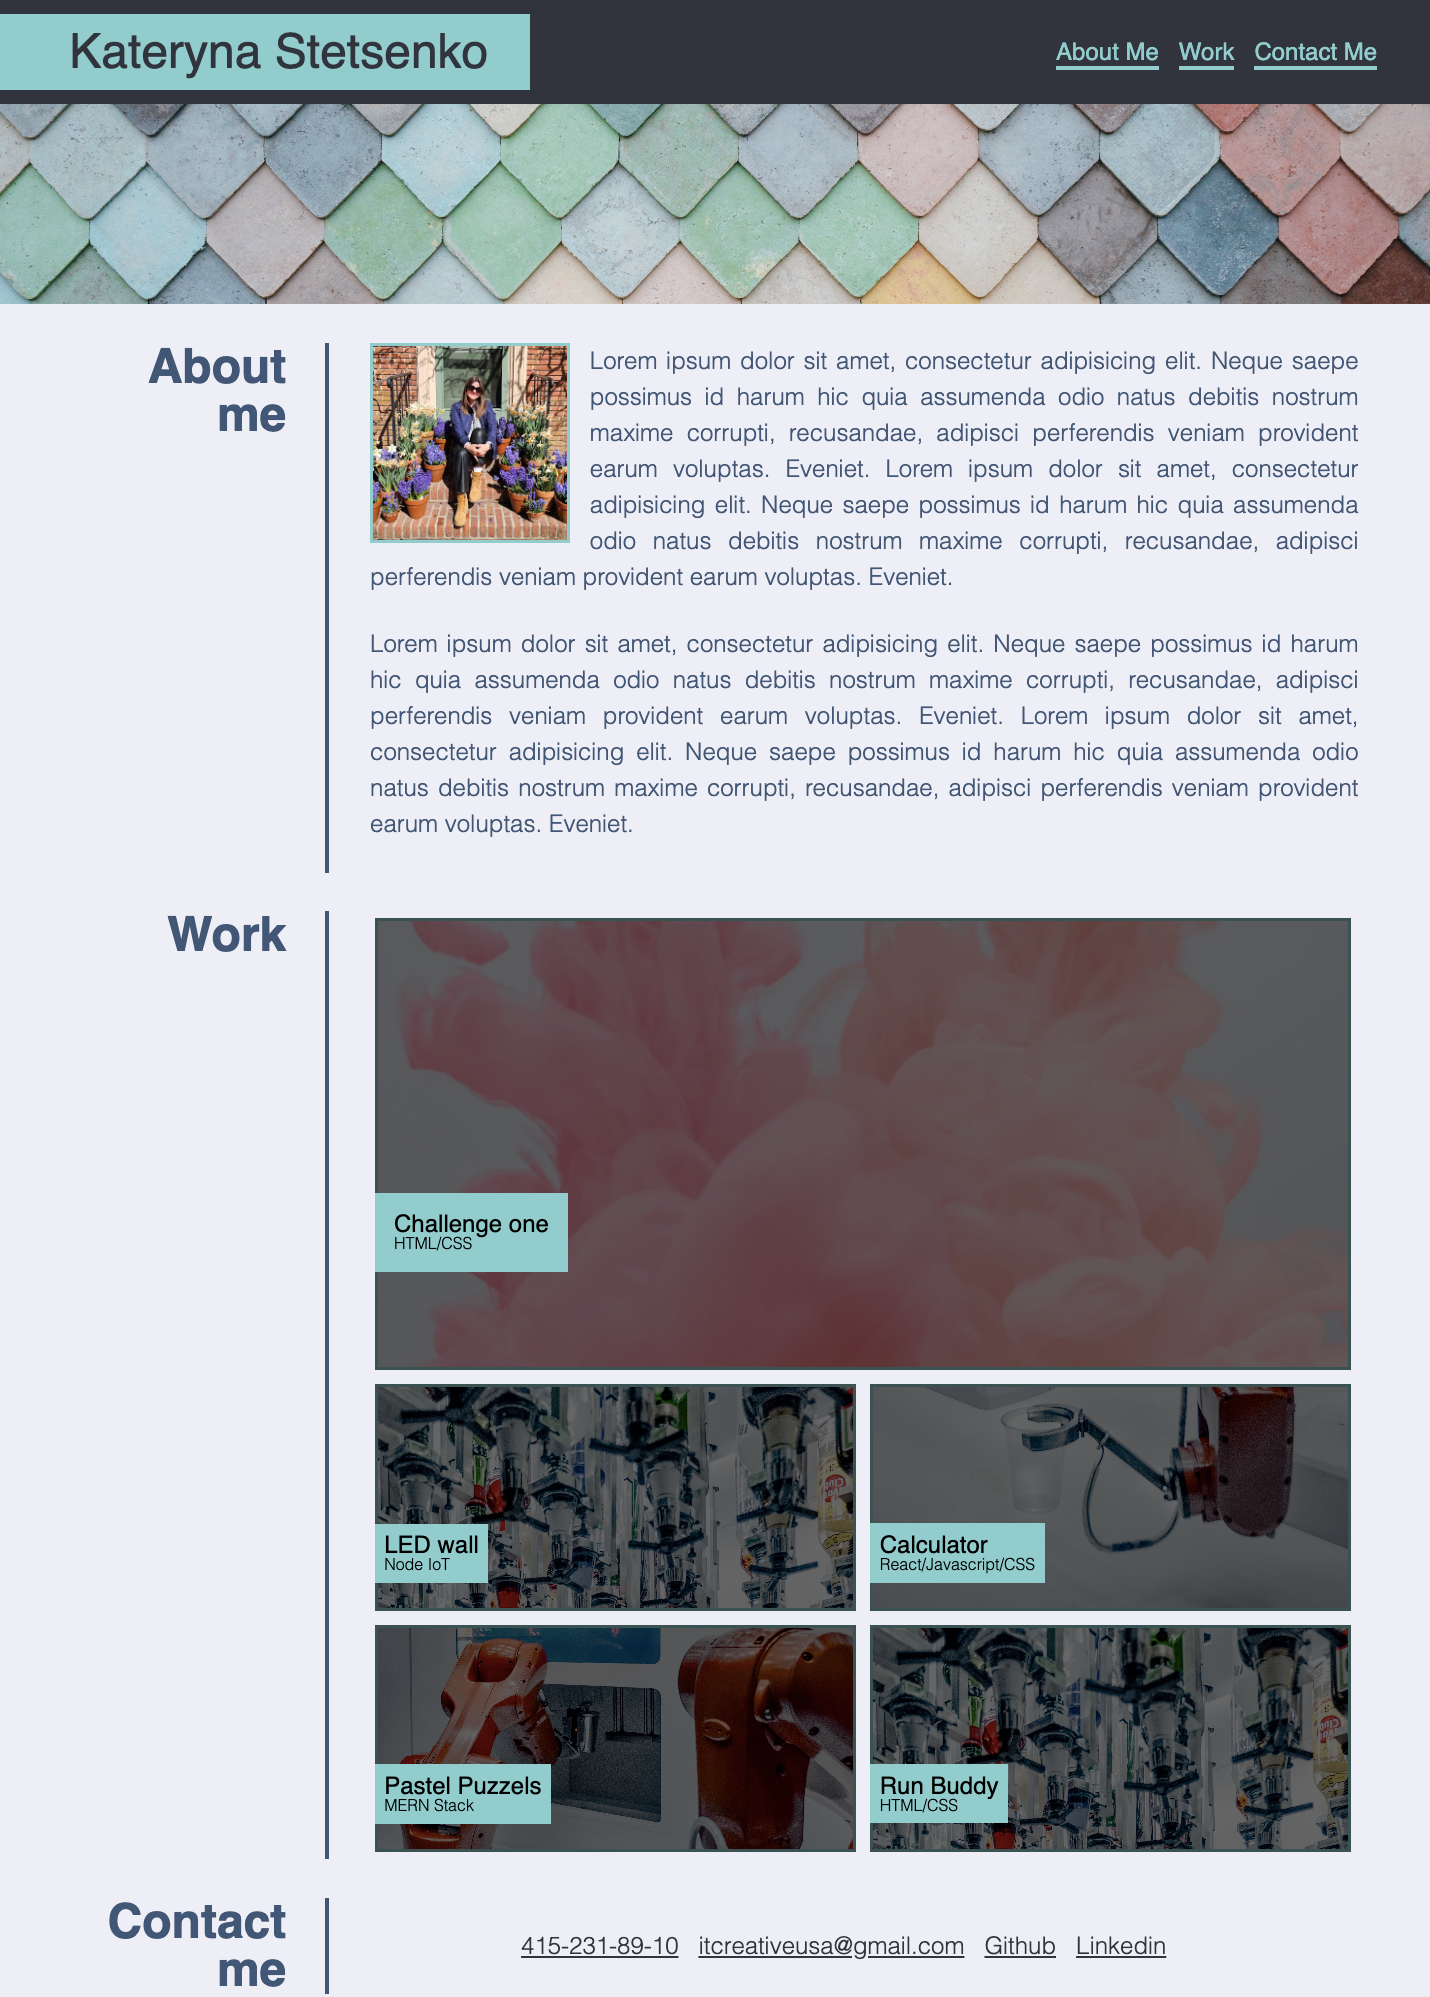
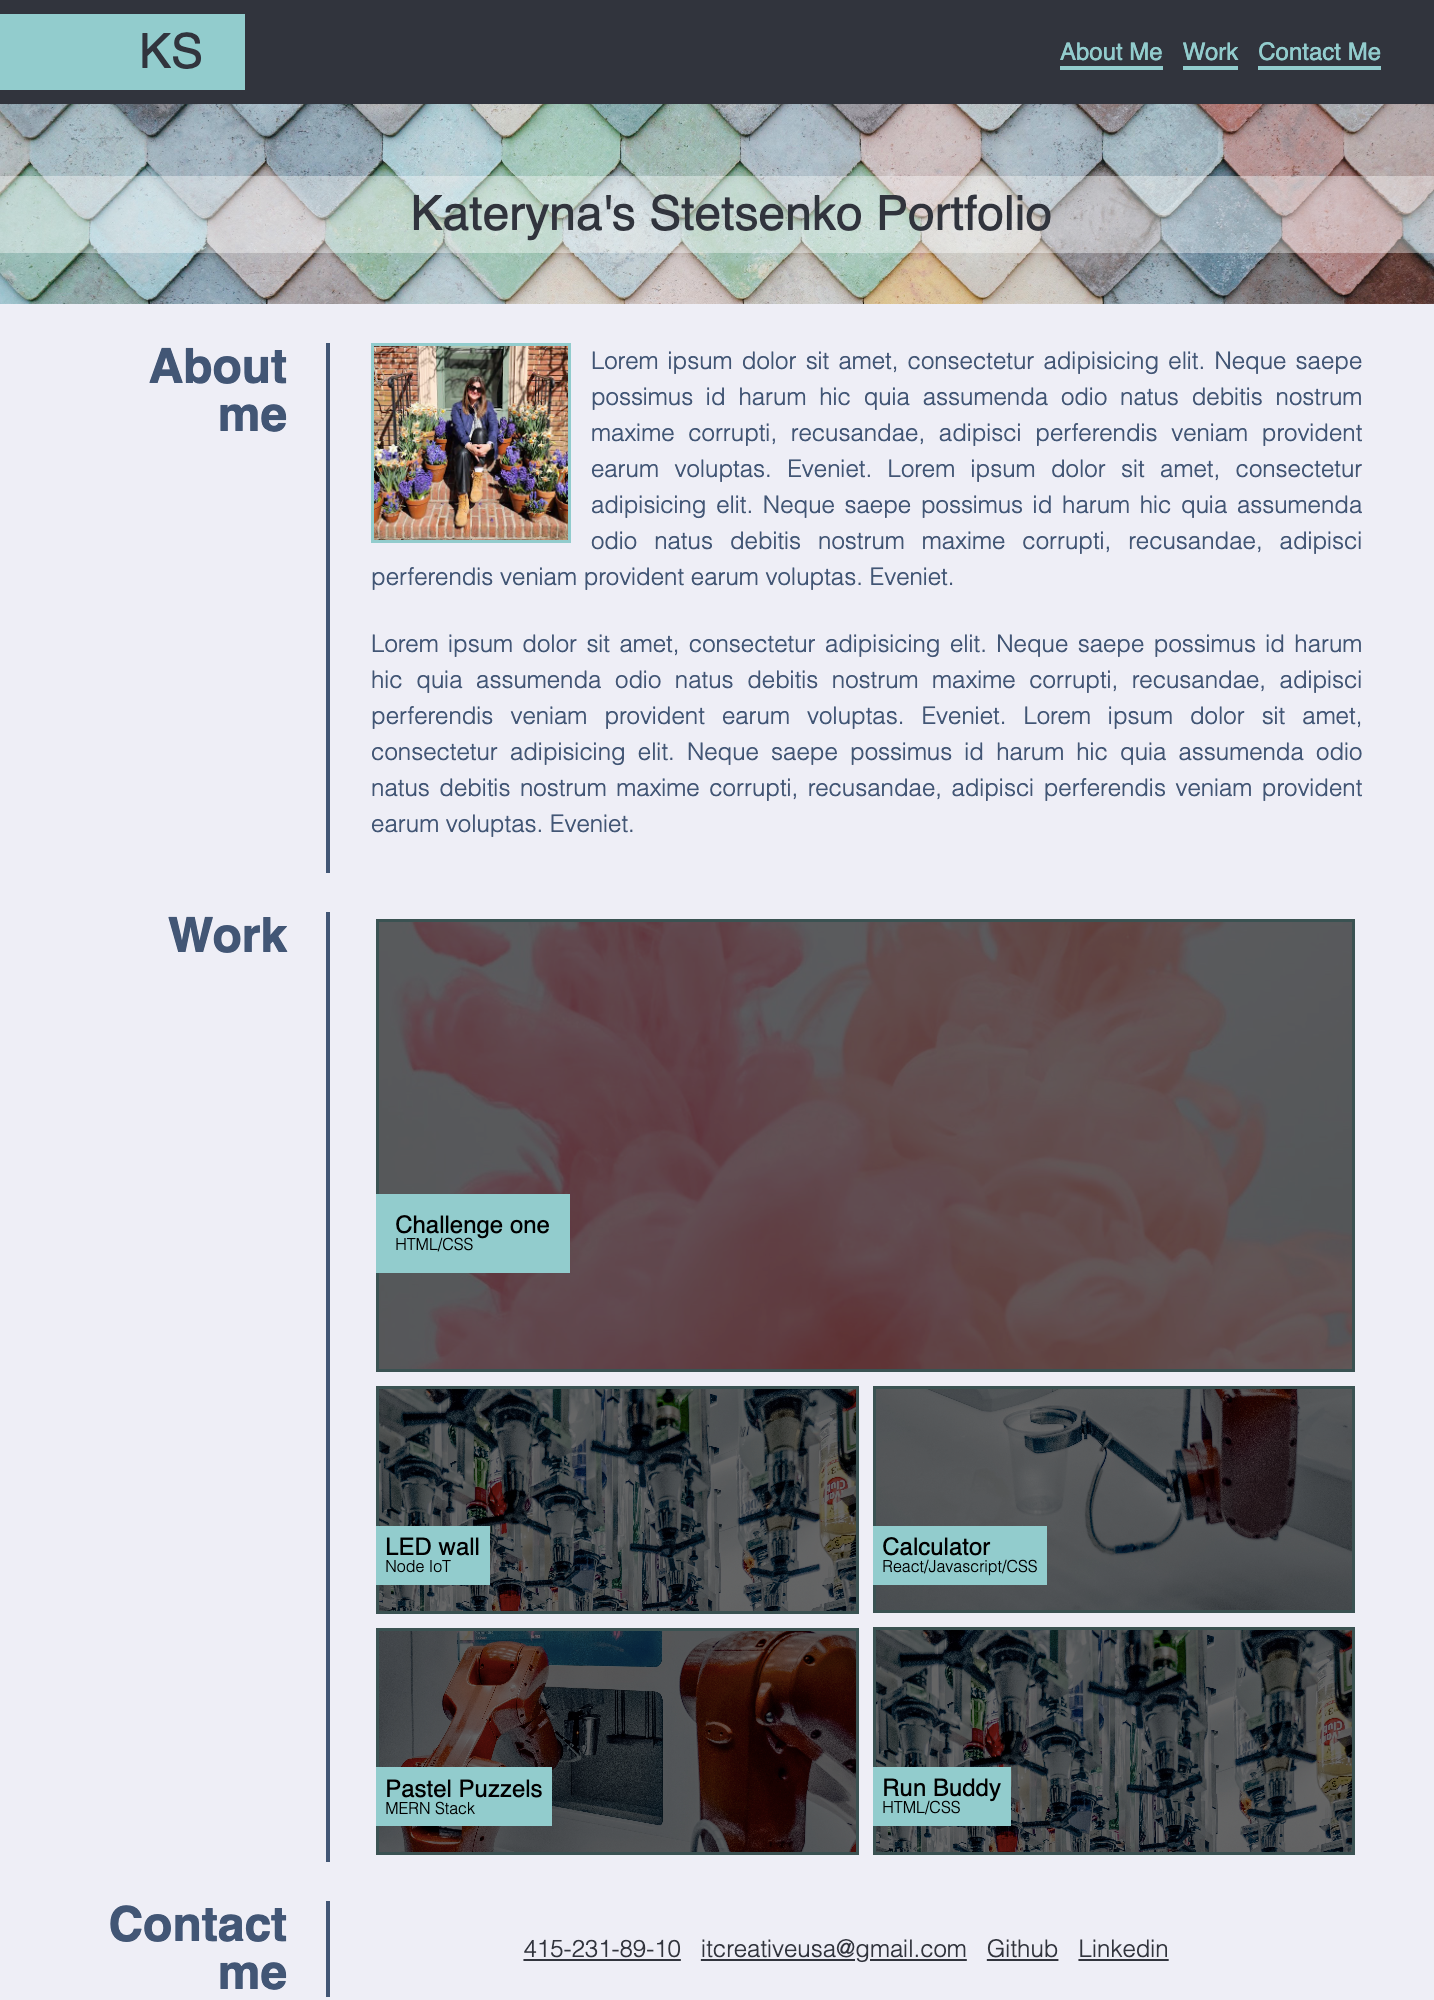
fix css & html files

diff --git a/assets/css/style.css b/assets/css/style.css
@@ -29,20 +29,17 @@ header {
 }
 /*Logo h1*/
 #logo {
-  font-size: 50px;
+  font-size: 300%;
+  background-color: var(--mint-color);
   font-weight: 400;
-  padding: 1% 3% 1% 5%;
+  padding: 1% 3% 1% 10%;
   color: var(--dark-grey-color);
-  transition: 1s;
 }
-#logo:hover {
-  padding: 1% 3% 1% 15%;
-  transition: 1s;
+#logo a {
+  text-decoration: none;
+  color: var(--dark-grey-color);
 }
-
-
-
-#h1-title{
+#h1-title {
   font-size: 300%;
   font-weight: 400;
   padding: 1% 3% 1% 5%;
@@ -50,8 +47,15 @@ header {
   margin: 0 auto;
   text-align: center;
   margin-top: 5%;
-  background-color:rgb(255 255 255 / 40%);
+  background-color: rgb(255 255 255 / 40%);
   text-transform: capitalize;
+}
+#logo span {
+  display: none;
+}
+#logo:hover span {
+  display: inline-block;
+  padding-left: 5px;
 }
 
 /*Header Menu*/
@@ -115,7 +119,7 @@ main {
   padding: 0 0% 3% 4%;
 }
 
-.profile{
+.profile {
   width: 200px;
   height: 200px;
   -webkit-filter: brightness(100%);
@@ -239,6 +243,10 @@ footer {
     padding: 1% 0;
   }
 
+  /*Tablets header h1 title text on back*/
+  #h1-title{
+    font-size: 200%;
+  }
   .about-me p {
     font-size: 1.5em;
   }
@@ -276,6 +284,10 @@ footer {
 
   #header-bg-image {
     height: 100px;
+  }
+/*Large smartphones h1 title text on back*/
+  #h1-title{
+    font-size: 200%;
   }
   .about-me p {
     font-size: 1em;
@@ -326,6 +338,10 @@ footer {
     display: flex;
     align-content: space-around;
     justify-content: center;
+  }
+/*Small smartphones h1 title text on back*/
+  #h1-title{
+    font-size: 100%;
   }
   .about-me p {
     font-size: 1em;

diff --git a/index.html b/index.html
@@ -15,7 +15,9 @@
 <body>
     <!--Header-->
     <header>
-        <div id="logo">&#128640;</div>
+   <!--Logo with hover effect-->
+       <div id="logo"><a href="https://github.com/itcreativeusa/Homework-Challenge-2">KS</a><span>&#128640;</span></div>
+
         <!--Navigation header menu-->
         <nav id="nav-menu-header">
             <ul>

diff --git a/README.md b/README.md
@@ -55,6 +55,8 @@ This solution makes smooth scrolling
 https://gomakethings.com/smooth-scrolling-links-with-only-css/
 
 
+https://stackoverflow.com/questions/9913293/change-text-on-hover-then-return-to-the-previous-text
+
 ## License
 
 Please refer to the LICENSE in the repo.
